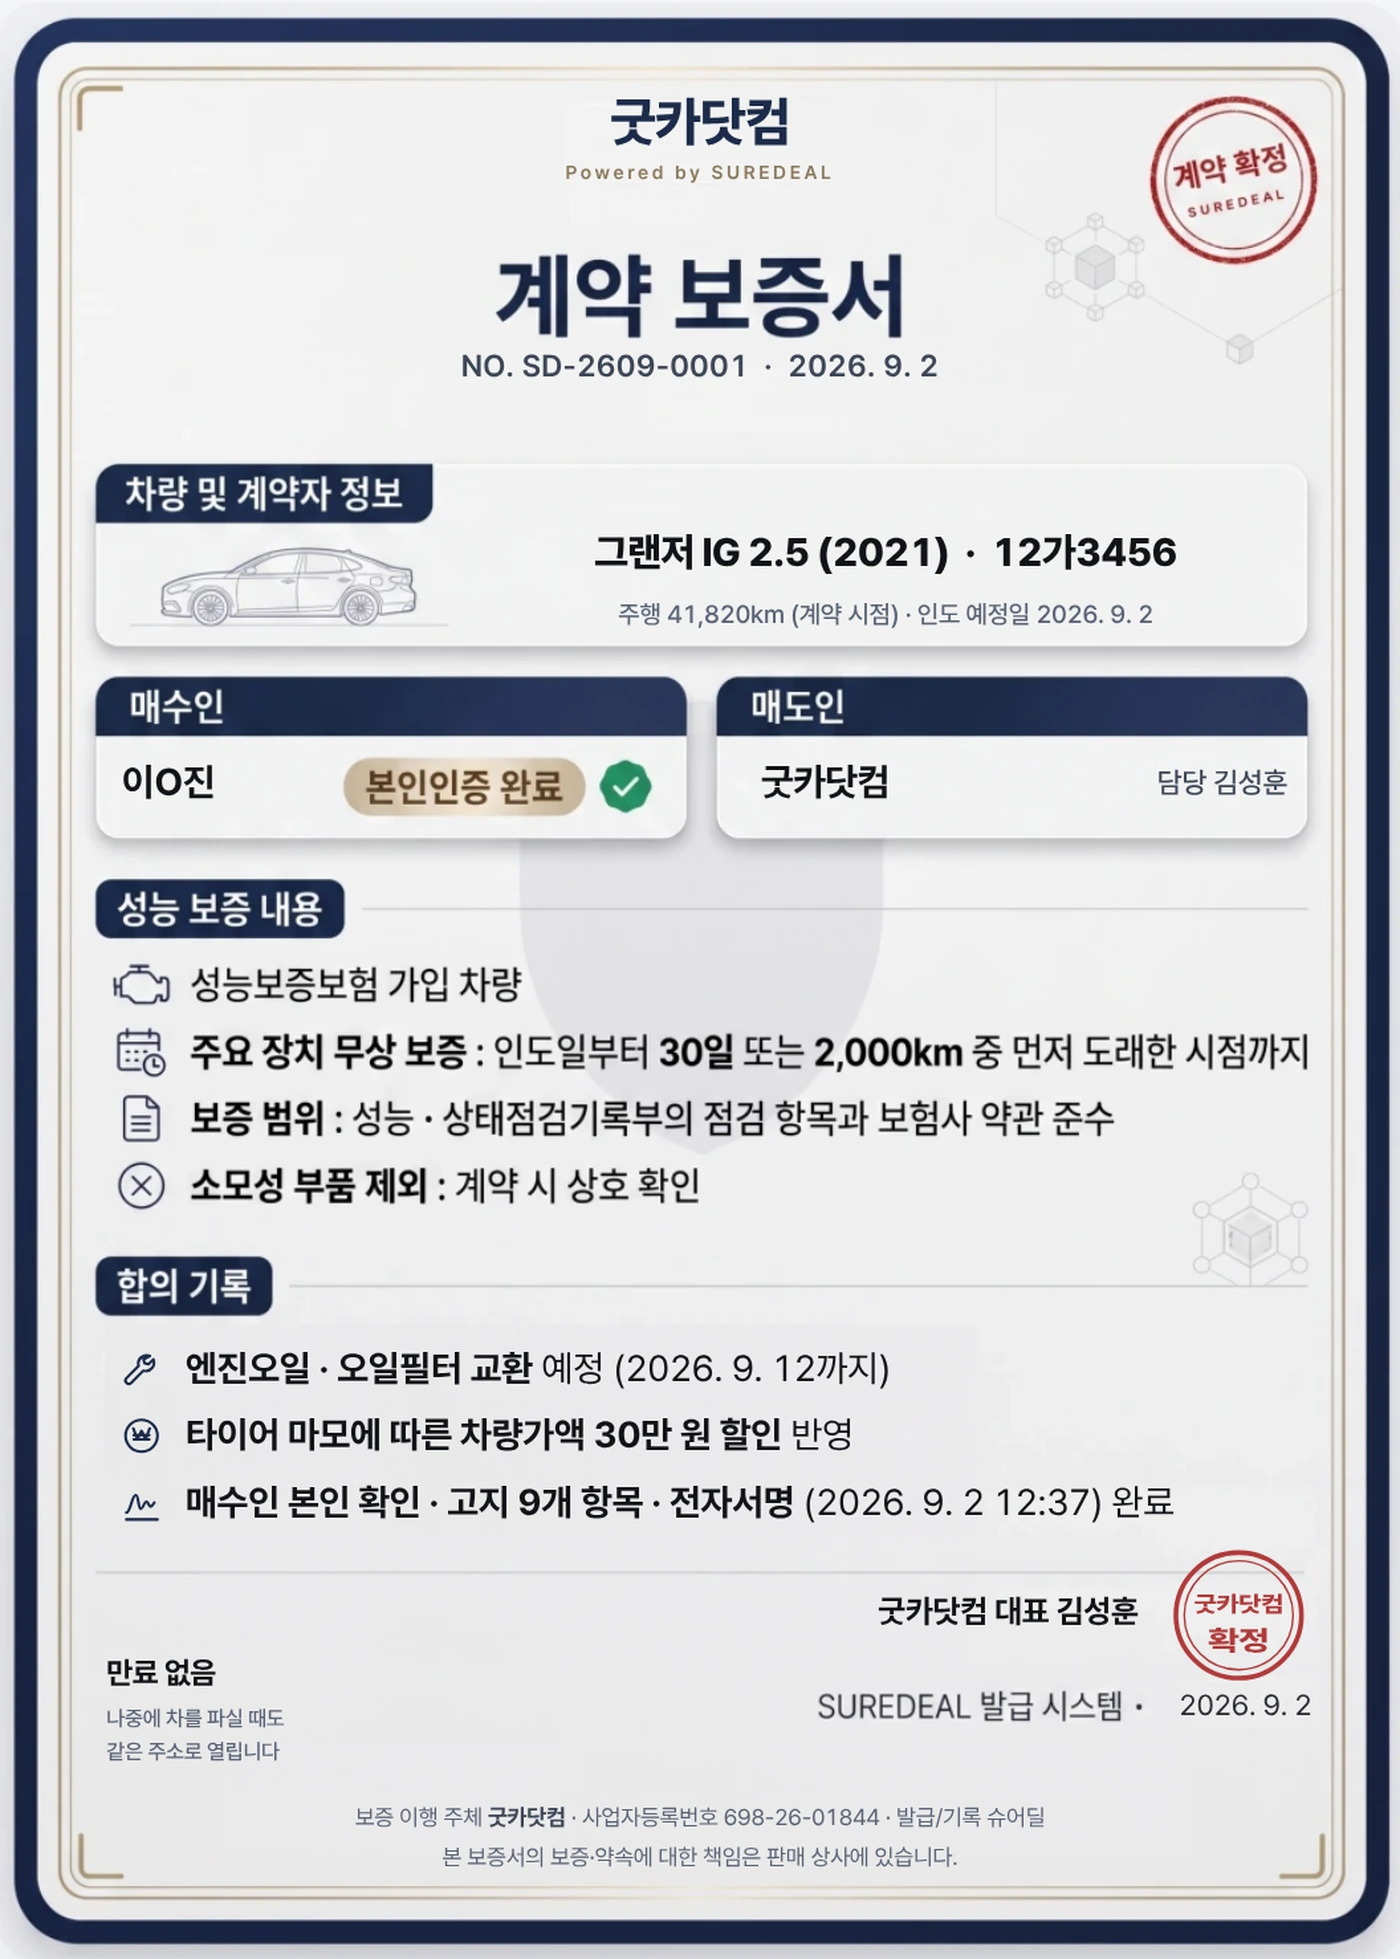
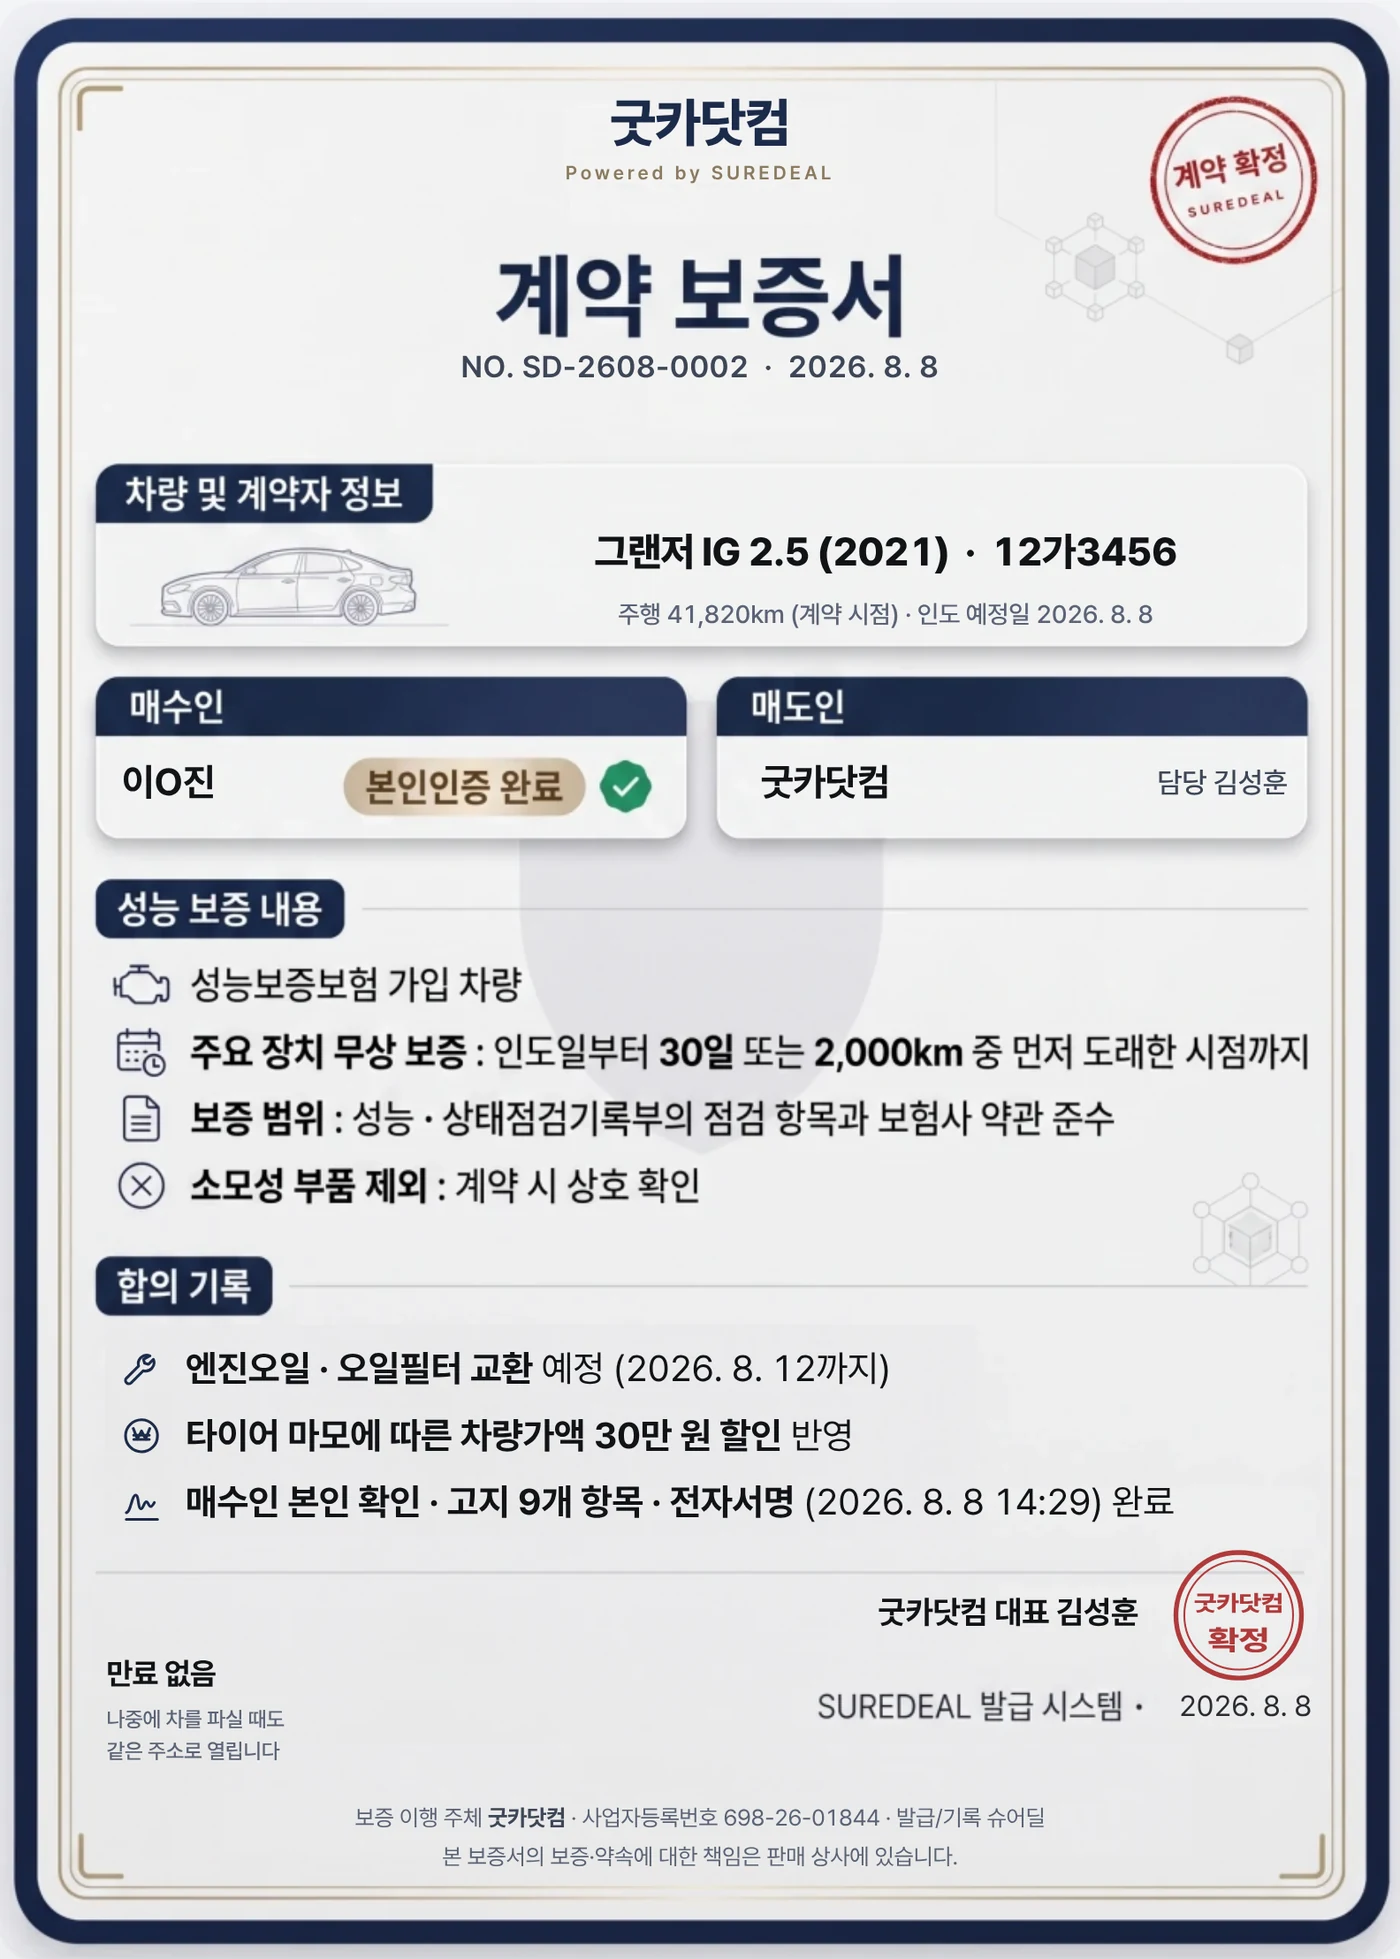
데모 보증서도 «앱 실물 이미지»로 (대표 지시)
랜딩(index·biz)은 2026.09.02 에 실물 이미지로 바꿨는데 데모만 옛 CSS 목업으로
남아 있었다 — 시연물이 실물과 다른 것을 보여주고 있었다. 결정 47-4 를 데모에도 적용한다.

⚠ 데모는 「임의로 고치지 않는다」가 규칙인 파일이다. 이번은 대표 지시(세 번째 예외).

· 가로세로비는 그대로 들어갔다(1.399) — 세로를 늘릴 필요가 없었다
· 🔴 그런데 날짜가 어긋났다. 데모는 «8월 8일» 시나리오로 24곳이 짜여 있는데
  이미지는 9월 2일이었다. 시연 중에 상사가 본다.
  → 데모 24곳을 고치는 대신 **이미지를 8/8 로 다시 뽑았다**(faketime 으로
     dev 서버를 2026-08-08 05:28 UTC 에 띄우고 앱에서 실제 계약을 확정).
     발급일·인도예정일·엔진오일 기한(8.12)·전자서명 시각까지 데모와 맞는다.
· 관리번호는 실물이 SD-2608-0002 로 나와 데모 3곳을 거기 맞췄다(옛 값 0142).
  전자서명 시각도 14:28 → 14:29 (2곳).
· 이미지는 3배로 렌더해 1400×1959 로 줄였다 — HTML 의 width/height 속성 그대로.
  150KB (이전 180KB).
· 랜딩 두 곳도 같은 파일을 쓰므로 함께 8/8 문서가 된다. 랜딩엔 날짜 시나리오가 없다.

실측: 데모 이미지 328×459(비율 1.399, 왜곡 없음) · 랜딩 여백 46px 유지

Claude-Session: https://claude.ai/code/session_013XPWN4L5gLLCUDTsSj8qqL

diff --git a/demo.html b/demo.html
@@ -210,6 +210,7 @@ h1{font-size:23px;font-weight:800;letter-spacing:-.55px;line-height:1.34;margin-
 /* ============ S7 보증서 ============ */
 #s7 .body{padding-top:16px}
 .cert-outer{background:linear-gradient(155deg,#1D3160 0%,#0C1730 70%);border-radius:22px;padding:9px;box-shadow:var(--shadow-pop)}
+.cert-img{display:block;width:100%;height:auto;border-radius:15px}
 .cert{background:var(--cert-paper);border-radius:15px;padding:26px 22px 22px;position:relative;overflow:hidden}
 .cert:before{content:"";position:absolute;inset:8px;border:1px solid var(--cert-line);border-radius:9px;pointer-events:none}
 .cert:after{content:"";position:absolute;inset:11px;border:2.5px solid #E9E5D6;border-radius:7px;pointer-events:none}
@@ -803,7 +804,7 @@ h1{font-size:23px;font-weight:800;letter-spacing:-.55px;line-height:1.34;margin-
       </div>
       <h1>계약이 확정되었습니다</h1>
       <p class="own-line"><b>그랜저 IG 2.5</b> · 12가 3456</p>
-      <div class="mng"><small>관리번호</small>SD-2608-0142</div>
+      <div class="mng"><small>관리번호</small>SD-2608-0002</div>
     </div>
     <div class="verify-card rise" style="animation-delay:.15s">
       <div class="vc-title">📋 오늘 고객님이 직접 확인하셨습니다</div>
@@ -829,49 +830,17 @@ h1{font-size:23px;font-weight:800;letter-spacing:-.55px;line-height:1.34;margin-
 <section class="screen" id="s7">
   <div class="topbar"><div class="brand"><div class="mark"><svg><use href="#i-mark"/></svg></div>슈어딜<small>SUREDEAL</small></div><a class="home-btn" href="biz/">← 홈</a><div class="demo-tag">DEMO</div></div>
   <div class="body">
-    <div class="cert-outer"><div class="cert">
-      <span class="corner c-tl"><svg viewBox="0 0 22 22"><use href="#i-corner"/></svg></span>
-      <span class="corner c-tr"><svg viewBox="0 0 22 22"><use href="#i-corner"/></svg></span>
-      <span class="corner c-br"><svg viewBox="0 0 22 22"><use href="#i-corner"/></svg></span>
-      <span class="corner c-bl"><svg viewBox="0 0 22 22"><use href="#i-corner"/></svg></span>
-      <svg class="wm" viewBox="0 0 24 24"><path fill="#131F38" d="M12 2 4.5 5v6c0 4.8 3.2 9.1 7.5 10.4 4.3-1.3 7.5-5.6 7.5-10.4V5L12 2Z"/></svg>
-
-      <div class="cert-head">
-        <div class="cert-issuer">굿카닷컴</div>
-        <div class="cert-title">계약 보증서</div>
-        <div class="cert-no">NO. SD-2608-0142 &nbsp;·&nbsp; 발급일 2026. 8. 8</div>
-      </div>
-
-          <div class="cert-body">
-        <div class="cert-row"><span>차 량</span><b>그랜저 IG 2.5 (2021) · 12가 3456</b></div>
-        <div class="cert-row"><span>매수인</span><b>이O진 <span style="color:var(--green);font-size:11px;font-weight:800">· 본인인증 완료</span></b></div>
-        <div class="cert-row"><span>판매 상사</span><b>굿카닷컴 · 담당 김성훈</b></div>
-
-        <div class="cert-sec">성능 보증 내용</div>
-        <div class="cert-li">성능보증보험 가입 차량 — <b>주요 장치 무상 보증</b><br><span style="opacity:.75">인도일부터 30일 또는 2,000km 중 <b>먼저 도래한 시점까지</b></span></div>
-            <div class="cert-li">보증 범위는 <b>성능·상태점검기록부의 점검 항목</b>과 보험사 약관을 따릅니다</div>
-        <div class="cert-li ex">소모성 부품은 보증 제외 — 계약 시 상호 확인</div>
-
-        <div class="cert-sec">합의 기록</div>
-            <div class="cert-li"><b>엔진오일·오일필터 교환 후 인도</b> (2026. 8. 12까지)</div>
-        <div class="cert-li">타이어 마모 → 차량가액 30만 원 할인 반영 · 추가 조치 없음 합의</div>
-        <div class="cert-li">전 항목 매수인 본인 확인 · 전자서명 (2026. 8. 8 14:28)</div>
-
-        <div class="cert-foot">
-          <div class="cert-keep">
-                <b>만료 없음</b>
-                <span>나중에 차를 파실 때도<br>같은 주소로 열립니다</span>
-              </div>
-              <div class="seal-area">
-            <div class="seal"><span class="s-ring"></span><span class="s-in">굿카<br>닷&nbsp;컴</span></div>
-            <div class="seal-name">굿카닷컴 대표 김성훈</div>
-            <div class="seal-date">SUREDEAL 발급 시스템 · 2026. 8. 8</div>
-          </div>
-        </div>
-        <div class="cert-legal">보증 이행 주체 <b>굿카닷컴</b> · 사업자등록번호 698-26-01844<br>
-          발급·기록 슈어딜 — 본 보증서의 보증·약속에 대한 책임은 판매 상사에 있습니다.</div>
-      </div>
-    </div></div>
+    <!-- ★ 앱의 «실제» 보증서를 렌더한 이미지다 (2026.09.04 대표 지시).
+         랜딩(index.html·biz/index.html)은 2026.09.02 에 이미 실물 이미지로 바꿨는데
+         데모만 옛 CSS 목업으로 남아 있었다 — 시연물이 실물과 다른 것을 보여주고 있었다.
+         ⚠ 앱 보증서를 고치면 이 이미지를 «다시 뽑아» 교체한다 — 다시 그리지 않는다.
+         ⚠ 아래 `.cert-*` CSS 는 옛 목업의 것이고 지금은 쓰이지 않는다.
+            데모는 원복 이력이 있는 파일이라 지우지 않고 둔다. -->
+    <div class="cert-outer">
+      <img class="cert-img" src="cert-sample.webp" width="1400" height="1959"
+           alt="계약 보증서 — 굿카닷컴이 발급한 문서. 차량과 매수인 본인인증 완료 표시, 성능 보증 내용, 합의 기록 3건, 상사 인장과 «보증 이행 주체는 판매 상사»라는 문구가 적혀 있습니다."
+           decoding="async">
+    </div>
 
     <!-- 보증서 화면 = 손님의 상시 허브 (§2-13) -->
     <div class="hub">
@@ -935,7 +904,7 @@ h1{font-size:23px;font-weight:800;letter-spacing:-.55px;line-height:1.34;margin-
           <div class="vt">그랜저 IG 2.5</div>
           <div class="vs2">이O진 님 · 2026. 8. 8(토) 계약 · 인도 완료</div>
         </div>
-        <span class="no">SD-2608-0142</span>
+        <span class="no">SD-2608-0002</span>
       </div>
 
       <div class="lk-sec">고객이 직접 확인한 항목</div>
@@ -944,7 +913,7 @@ h1{font-size:23px;font-weight:800;letter-spacing:-.55px;line-height:1.34;margin-
         <div class="lk-row"><span class="ck2">✓</span>보증 범위와 제외 항목<span class="tm2">14:23</span></div>
         <div class="lk-row"><span class="ck2">✓</span>소모성 부품 보증 제외<span class="tm2">14:24</span></div>
         <div class="lk-row"><span class="ck2">✓</span>거래 조건 · 인도까지 추가 청구 비용 없음<span class="tm2">14:27</span></div>
-        <div class="lk-row"><span class="ck2">✓</span>기재된 내용 외 구두 약속 없음<span class="tm2">14:28</span></div>
+        <div class="lk-row"><span class="ck2">✓</span>기재된 내용 외 구두 약속 없음<span class="tm2">14:29</span></div>
       </div>
 
       <div class="lk-sec">거래 금액 <span style="font-weight:700;letter-spacing:0;color:var(--faint)">· 딜러 확인용</span></div>
@@ -1266,7 +1235,7 @@ function toast(msg){
   t.classList.add('show'); setTimeout(()=>t.classList.remove('show'),2600);
 }
 function shareCert(){
-  const data={title:'슈어딜 보증서',text:'[슈어딜 보증서] 그랜저 IG 2.5 (12가 3456) · NO. SD-2608-0142\n본인인증 기반으로 확정된 계약 보증서입니다.',url:location.href};
+  const data={title:'슈어딜 보증서',text:'[슈어딜 보증서] 그랜저 IG 2.5 (12가 3456) · NO. SD-2608-0002\n본인인증 기반으로 확정된 계약 보증서입니다.',url:location.href};
   if(navigator.share){navigator.share(data).catch(()=>{});}
   else{const t=document.getElementById('toast');t.classList.add('show');setTimeout(()=>t.classList.remove('show'),2600);}
 }
@@ -1288,7 +1257,7 @@ function clearSig(){
       <div class="rec-c">
         <div class="rec-r"><span class="ck2">✓</span>성능·상태점검기록부 확인<i>8. 8(토) 14:25</i></div>
         <div class="rec-r"><span class="ck2">✓</span>주행거리 41,820km<i>계약 시점</i></div>
-        <div class="rec-r"><span class="ck2">✓</span>본인인증 계약 · 전자서명<i>8. 8(토) 14:28</i></div>
+        <div class="rec-r"><span class="ck2">✓</span>본인인증 계약 · 전자서명<i>8. 8(토) 14:29</i></div>
         <div class="rec-r"><span class="ck2">✓</span>합의 기록 1건<i>타이어 마모 → 30만 원 반영</i></div>
       </div>
       <div class="rec-msg"><b>나중에 이 차를 파실 때, 이 기록이 그대로 남아 있습니다.</b><br>
